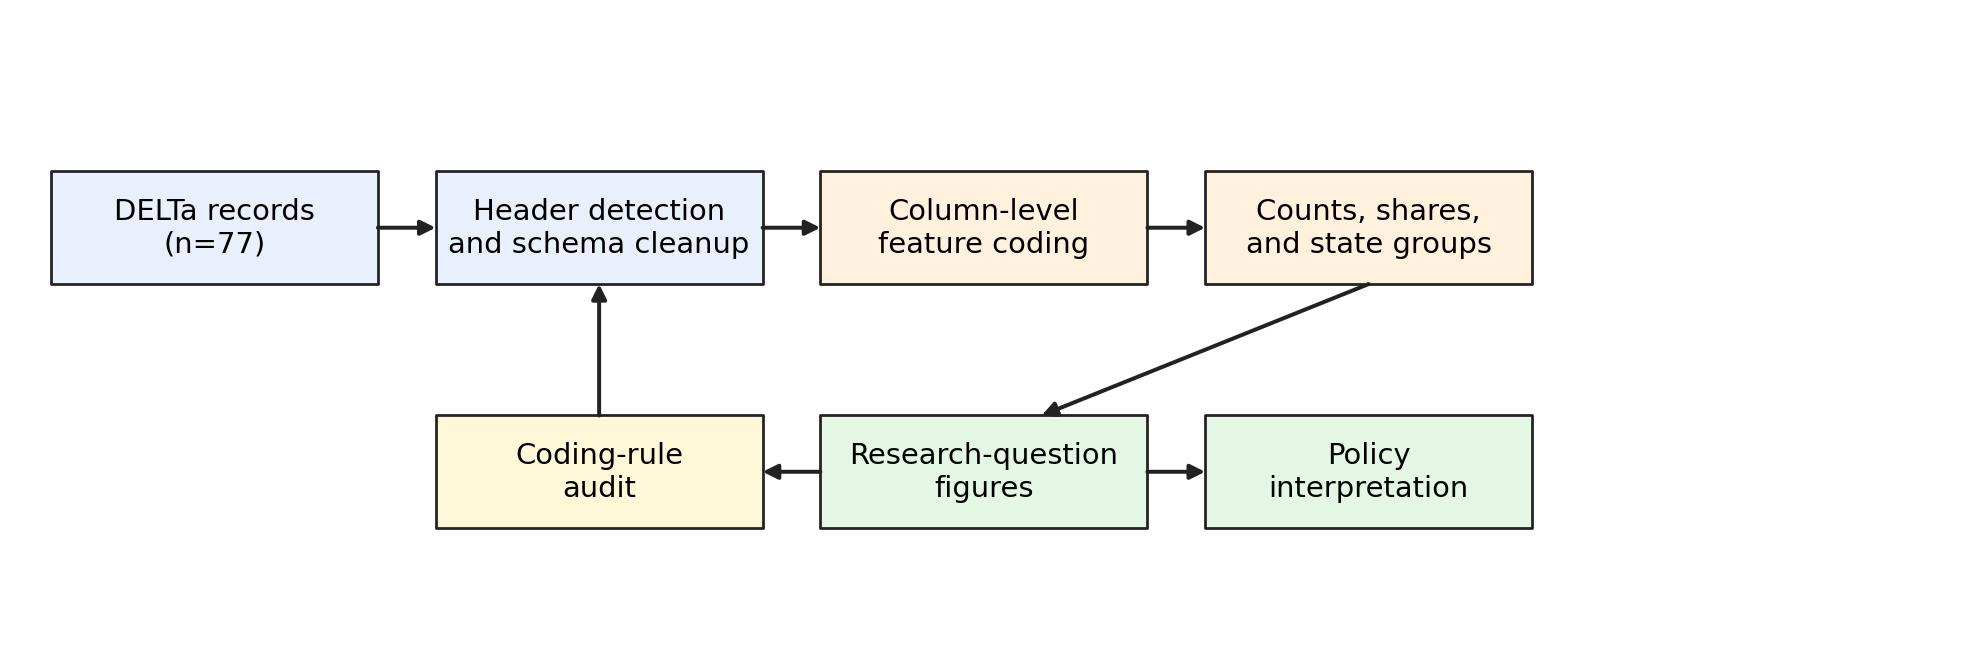
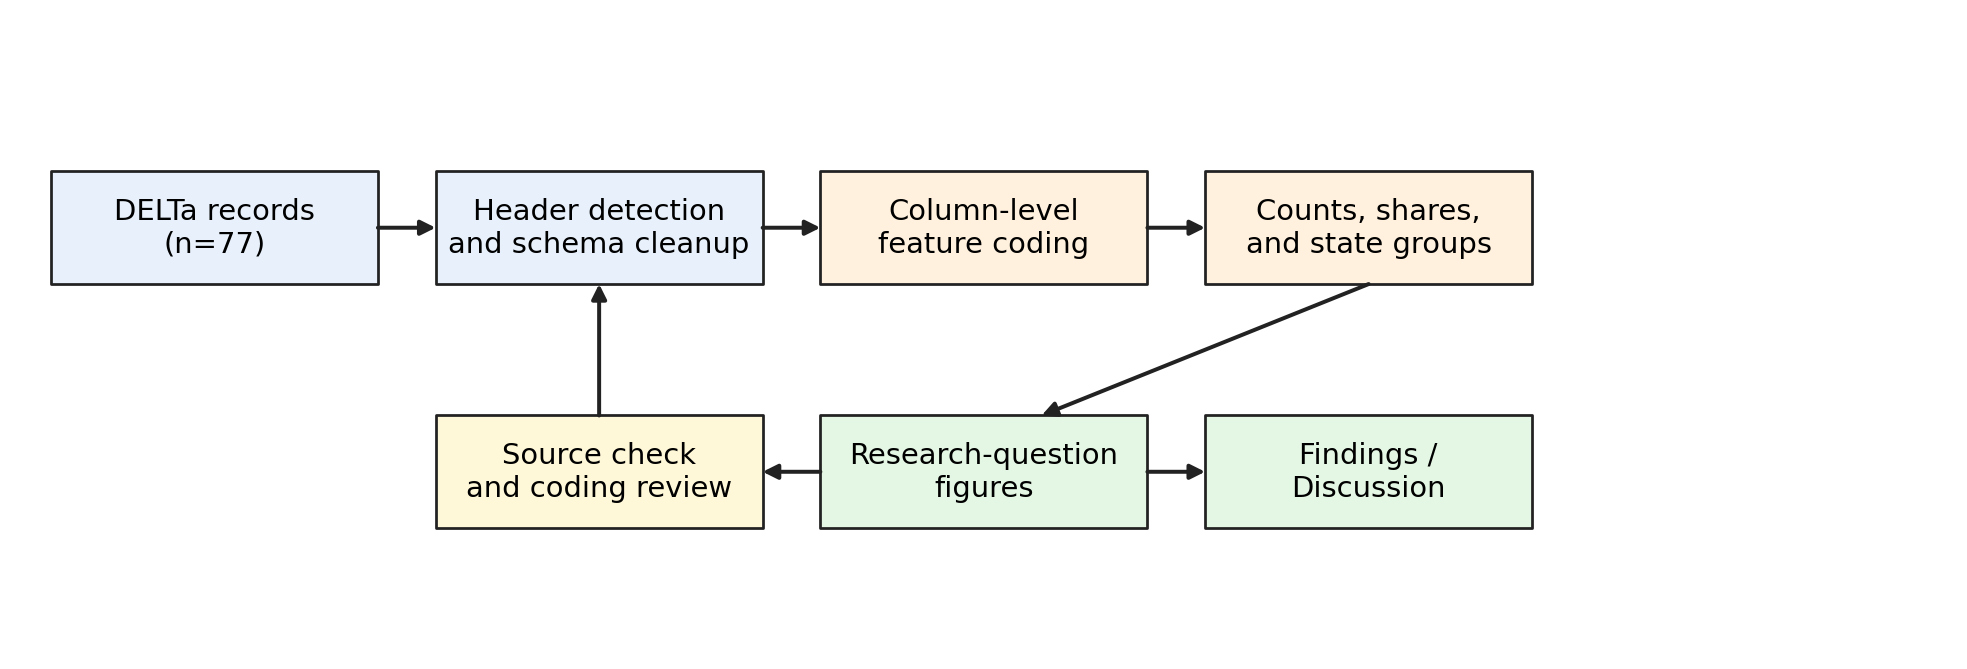
Clarify methodology figure labels

Changed region(s): [[0.2171, 0.6577, 0.3721, 0.7474], [0.6512, 0.6577, 0.7443, 0.7474]]

diff --git a/analysis/generate_third_paper_figures.py b/analysis/generate_third_paper_figures.py
@@ -30,9 +30,9 @@ def save_methodology_flow():
         ("Header detection\nand schema cleanup", 0.30, 0.67, "#e8f1fb"),
         ("Column-level\nfeature coding", 0.50, 0.67, "#fff1dd"),
         ("Counts, shares,\nand state groups", 0.70, 0.67, "#fff1dd"),
-        ("Coding-rule\naudit", 0.30, 0.28, "#fff8d8"),
+        ("Source check\nand coding review", 0.30, 0.28, "#fff8d8"),
         ("Research-question\nfigures", 0.50, 0.28, "#e4f7e4"),
-        ("Policy\ninterpretation", 0.70, 0.28, "#e4f7e4"),
+        ("Findings /\nDiscussion", 0.70, 0.28, "#e4f7e4"),
     ]
     box_width = 0.17
     box_height = 0.18
